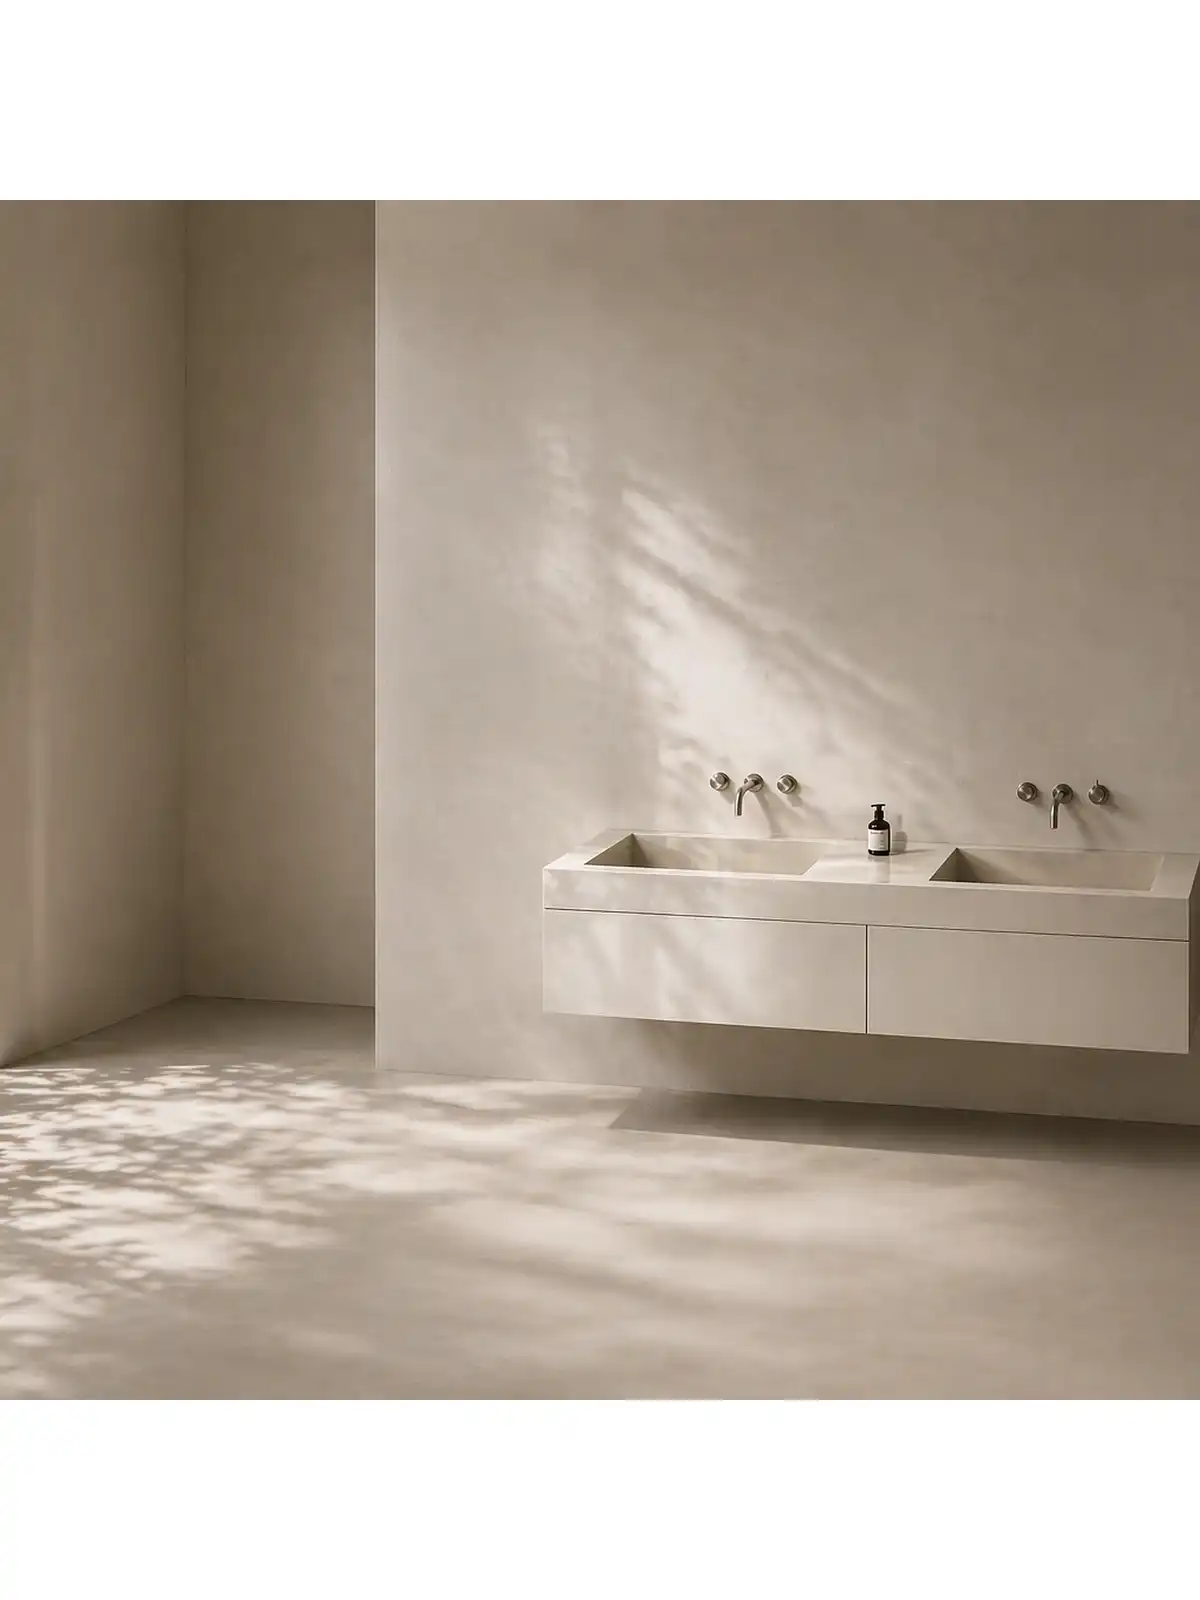
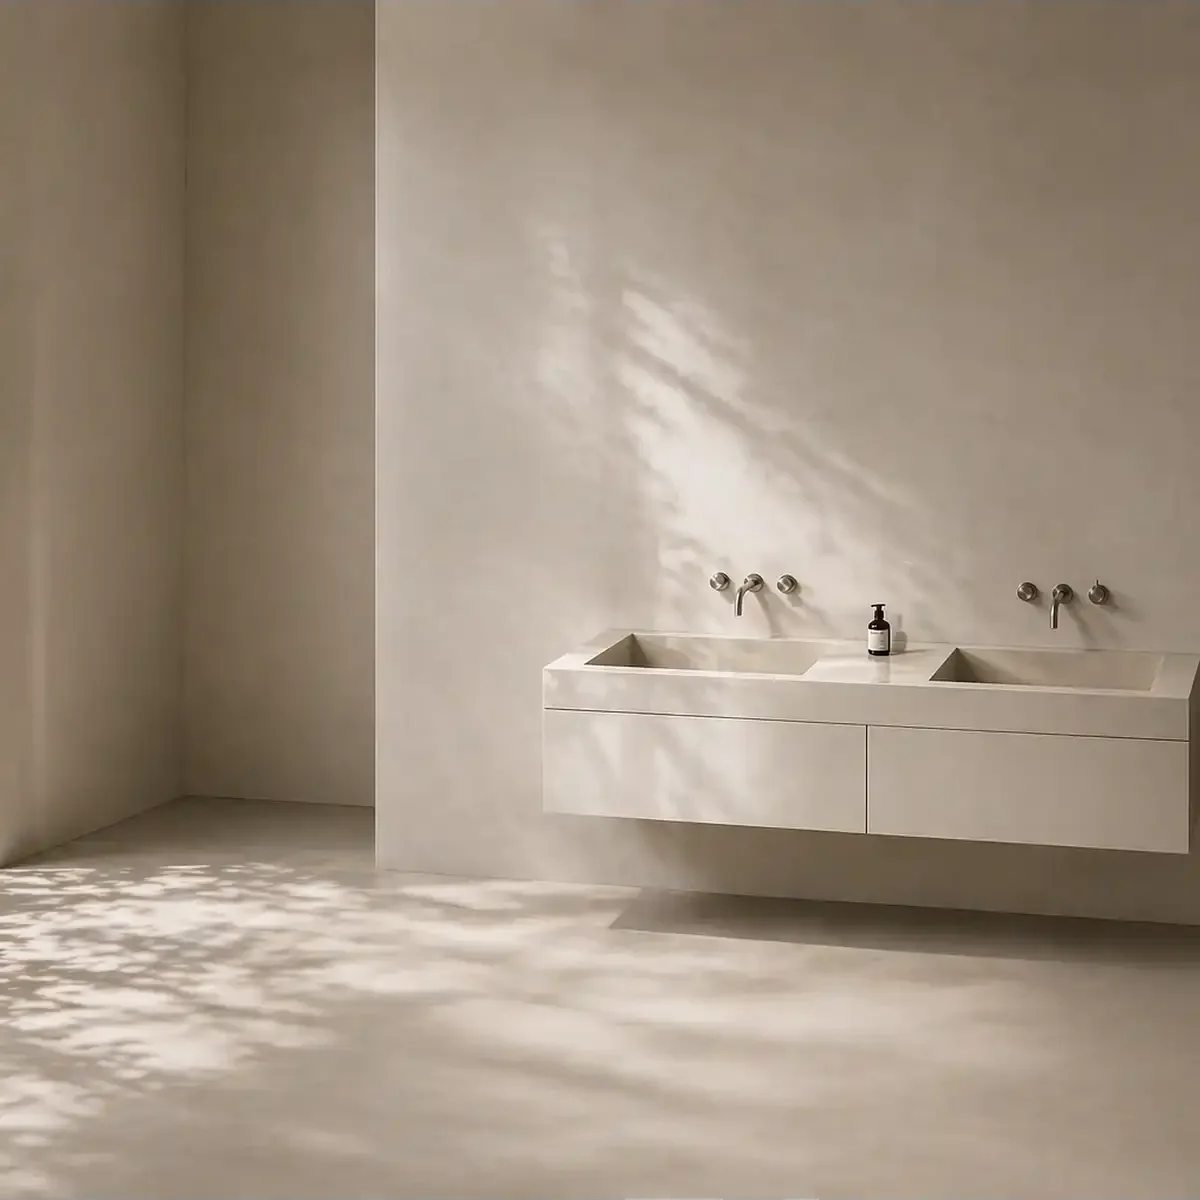
Fix mobile hero image crop

diff --git a/assets/css/styles.css b/assets/css/styles.css
@@ -6207,8 +6207,8 @@ body {
   .hero__parallax-bg {
     background-image:
       image-set(
-        url("../images/hero3-mobile.avif") type("image/avif"),
-        url("../images/hero3-mobile.webp") type("image/webp")
+        url("../images/hero3-mobile.avif?v=20260625-cropped") type("image/avif"),
+        url("../images/hero3-mobile.webp?v=20260625-cropped") type("image/webp")
       );
     background-position: 58% center;
   }
@@ -9131,13 +9131,30 @@ body {
     padding:
       calc(76px + env(safe-area-inset-top))
       0
-      env(safe-area-inset-bottom);
+      calc(18px + env(safe-area-inset-bottom));
     align-items: flex-start;
+    background: #e9e2d7;
   }
 
   .hero__parallax-bg {
-    inset: -14% 0;
-    background-position: 58% center;
+    inset: -2px 0;
+    background-color: #e9e2d7;
+    background-position: 54% center;
+  }
+
+  .hero__parallax-bg::before {
+    content: "";
+    position: absolute;
+    inset: 0;
+    background:
+      linear-gradient(
+        180deg,
+        rgba(216, 207, 193, 0.5) 0%,
+        rgba(244, 240, 232, 0.1) 14%,
+        rgba(244, 240, 232, 0) 72%,
+        rgba(216, 207, 193, 0.42) 100%
+      );
+    pointer-events: none;
   }
 
   .hero__grid {
@@ -9146,6 +9163,9 @@ body {
 
   .hero__copy {
     max-width: 100%;
+    min-height: calc(100svh - 76px - 18px - env(safe-area-inset-top) - env(safe-area-inset-bottom));
+    display: flex;
+    flex-direction: column;
   }
 
   .hero .eyebrow {
@@ -9169,7 +9189,8 @@ body {
 
   .hero .hero__actions {
     gap: 12px;
-    margin: 30px 0 26px;
+    margin: auto 0 22px;
+    padding-top: 28px;
   }
 
   .hero .btn {
@@ -9199,7 +9220,7 @@ body {
 @media (max-width: 390px) and (max-height: 720px) {
   .hero {
     padding-top: calc(72px + env(safe-area-inset-top));
-    padding-bottom: env(safe-area-inset-bottom);
+    padding-bottom: calc(14px + env(safe-area-inset-bottom));
   }
 
   .hero .eyebrow {
@@ -9221,7 +9242,8 @@ body {
   }
 
   .hero .hero__actions {
-    margin: 26px 0 20px;
+    margin-bottom: 18px;
+    padding-top: 22px;
   }
 
   .hero .btn {

diff --git a/index.html b/index.html
@@ -93,8 +93,8 @@
       rel="stylesheet"
     />
 
-    <link rel="preload" as="image" href="/assets/images/hero3-mobile.avif" type="image/avif" media="(max-width: 767px)" fetchpriority="high" />
-    <link rel="stylesheet" href="./assets/css/styles.css?v=20260625-hero-title-composition" />
+    <link rel="preload" as="image" href="/assets/images/hero3-mobile.avif?v=20260625-cropped" type="image/avif" media="(max-width: 767px)" fetchpriority="high" />
+    <link rel="stylesheet" href="./assets/css/styles.css?v=20260625-mobile-hero-crop" />
   </head>
   <body>
     <div class="page-loader" data-page-loader aria-hidden="true">
